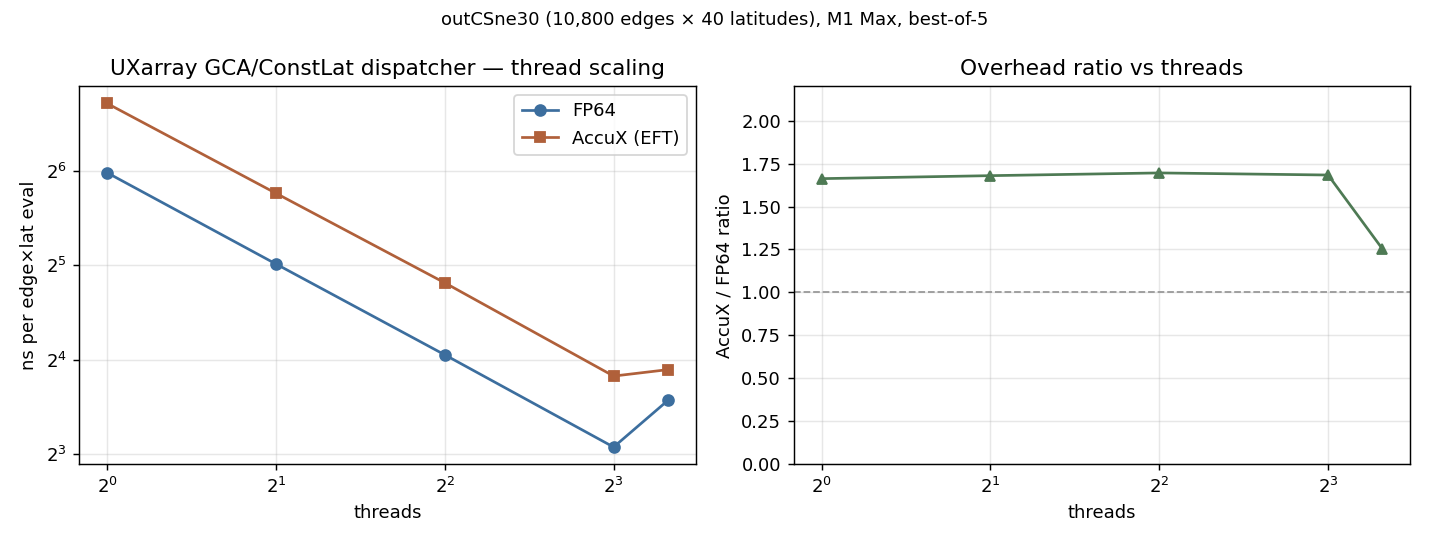
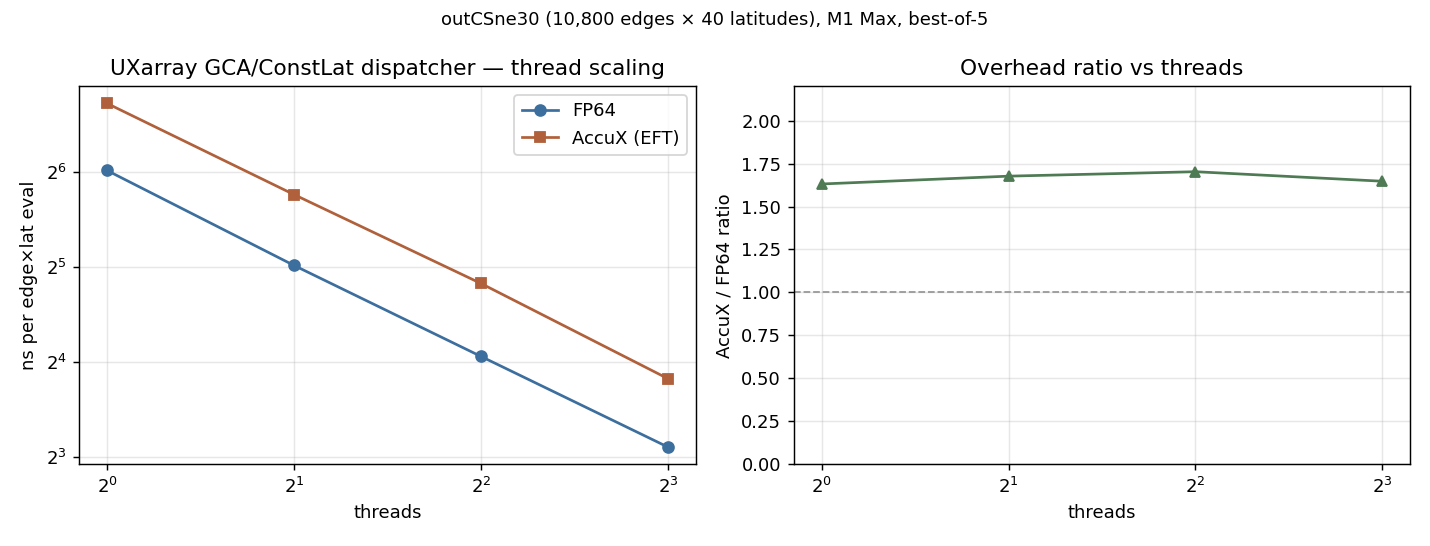
Cap thread-scaling sweep at performance cores to avoid E-core artifact

diff --git a/benchmarks/thread_scaling_constlat.py b/benchmarks/thread_scaling_constlat.py
@@ -84,7 +84,15 @@ def main():
     n_eval = edges.shape[0] * n_lat
     acc = np.empty(edges.shape[0], dtype=np.float64)
 
-    max_threads = get_num_threads()
+    # Cap the sweep at the number of fast performance cores. On heterogeneous
+    # CPUs (e.g. Apple M-series: performance + efficiency cores) adding the slow
+    # efficiency cores makes the parallel loop wait on the slowest chunk, so
+    # times go *up* past the P-core count — a scheduling artifact, not a
+    # property of the kernels. Override with the PERF_CORES env var if needed.
+    import os
+
+    perf_cores = int(os.environ.get("PERF_CORES", "8"))
+    max_threads = min(get_num_threads(), perf_cores)
     counts = []
     t = 1
     while t < max_threads:
